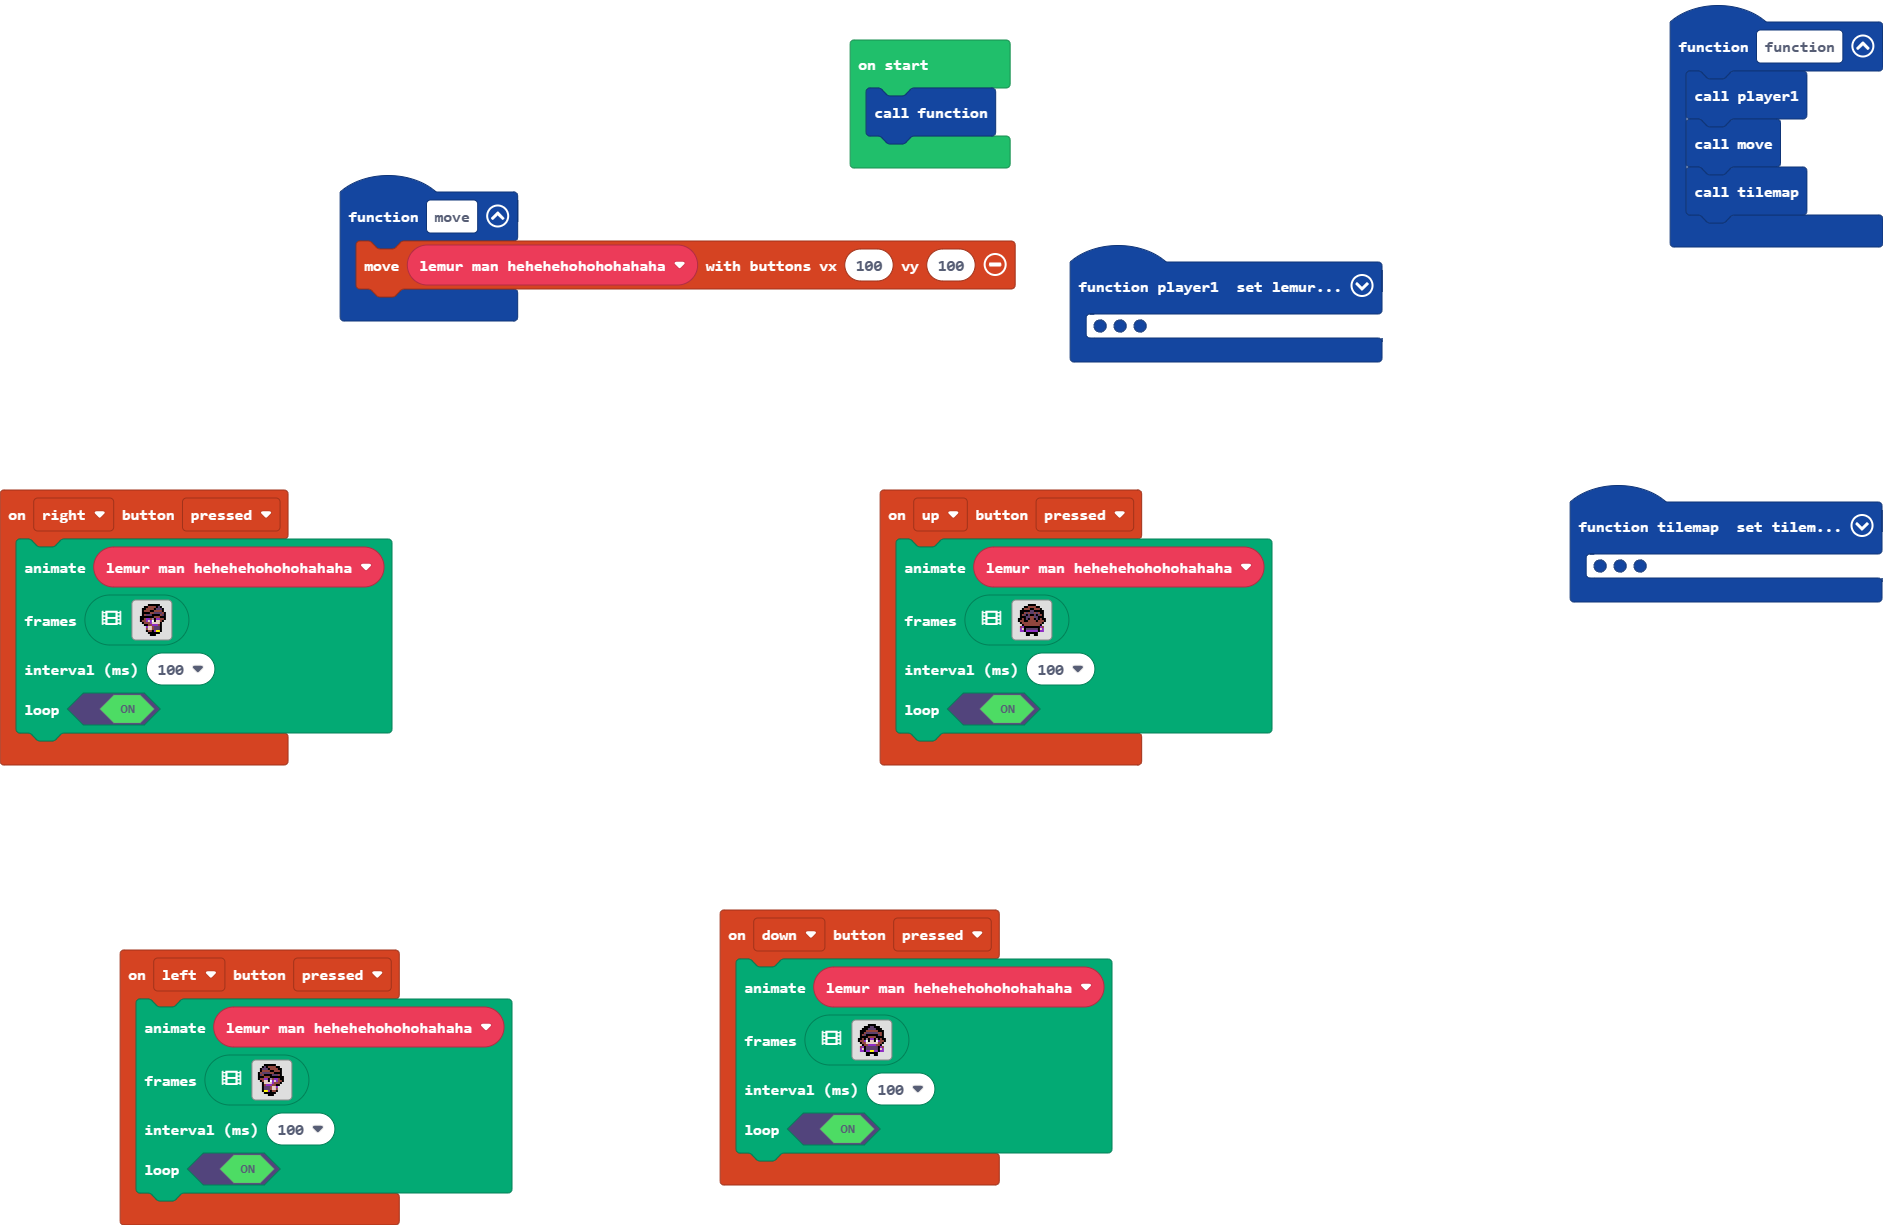
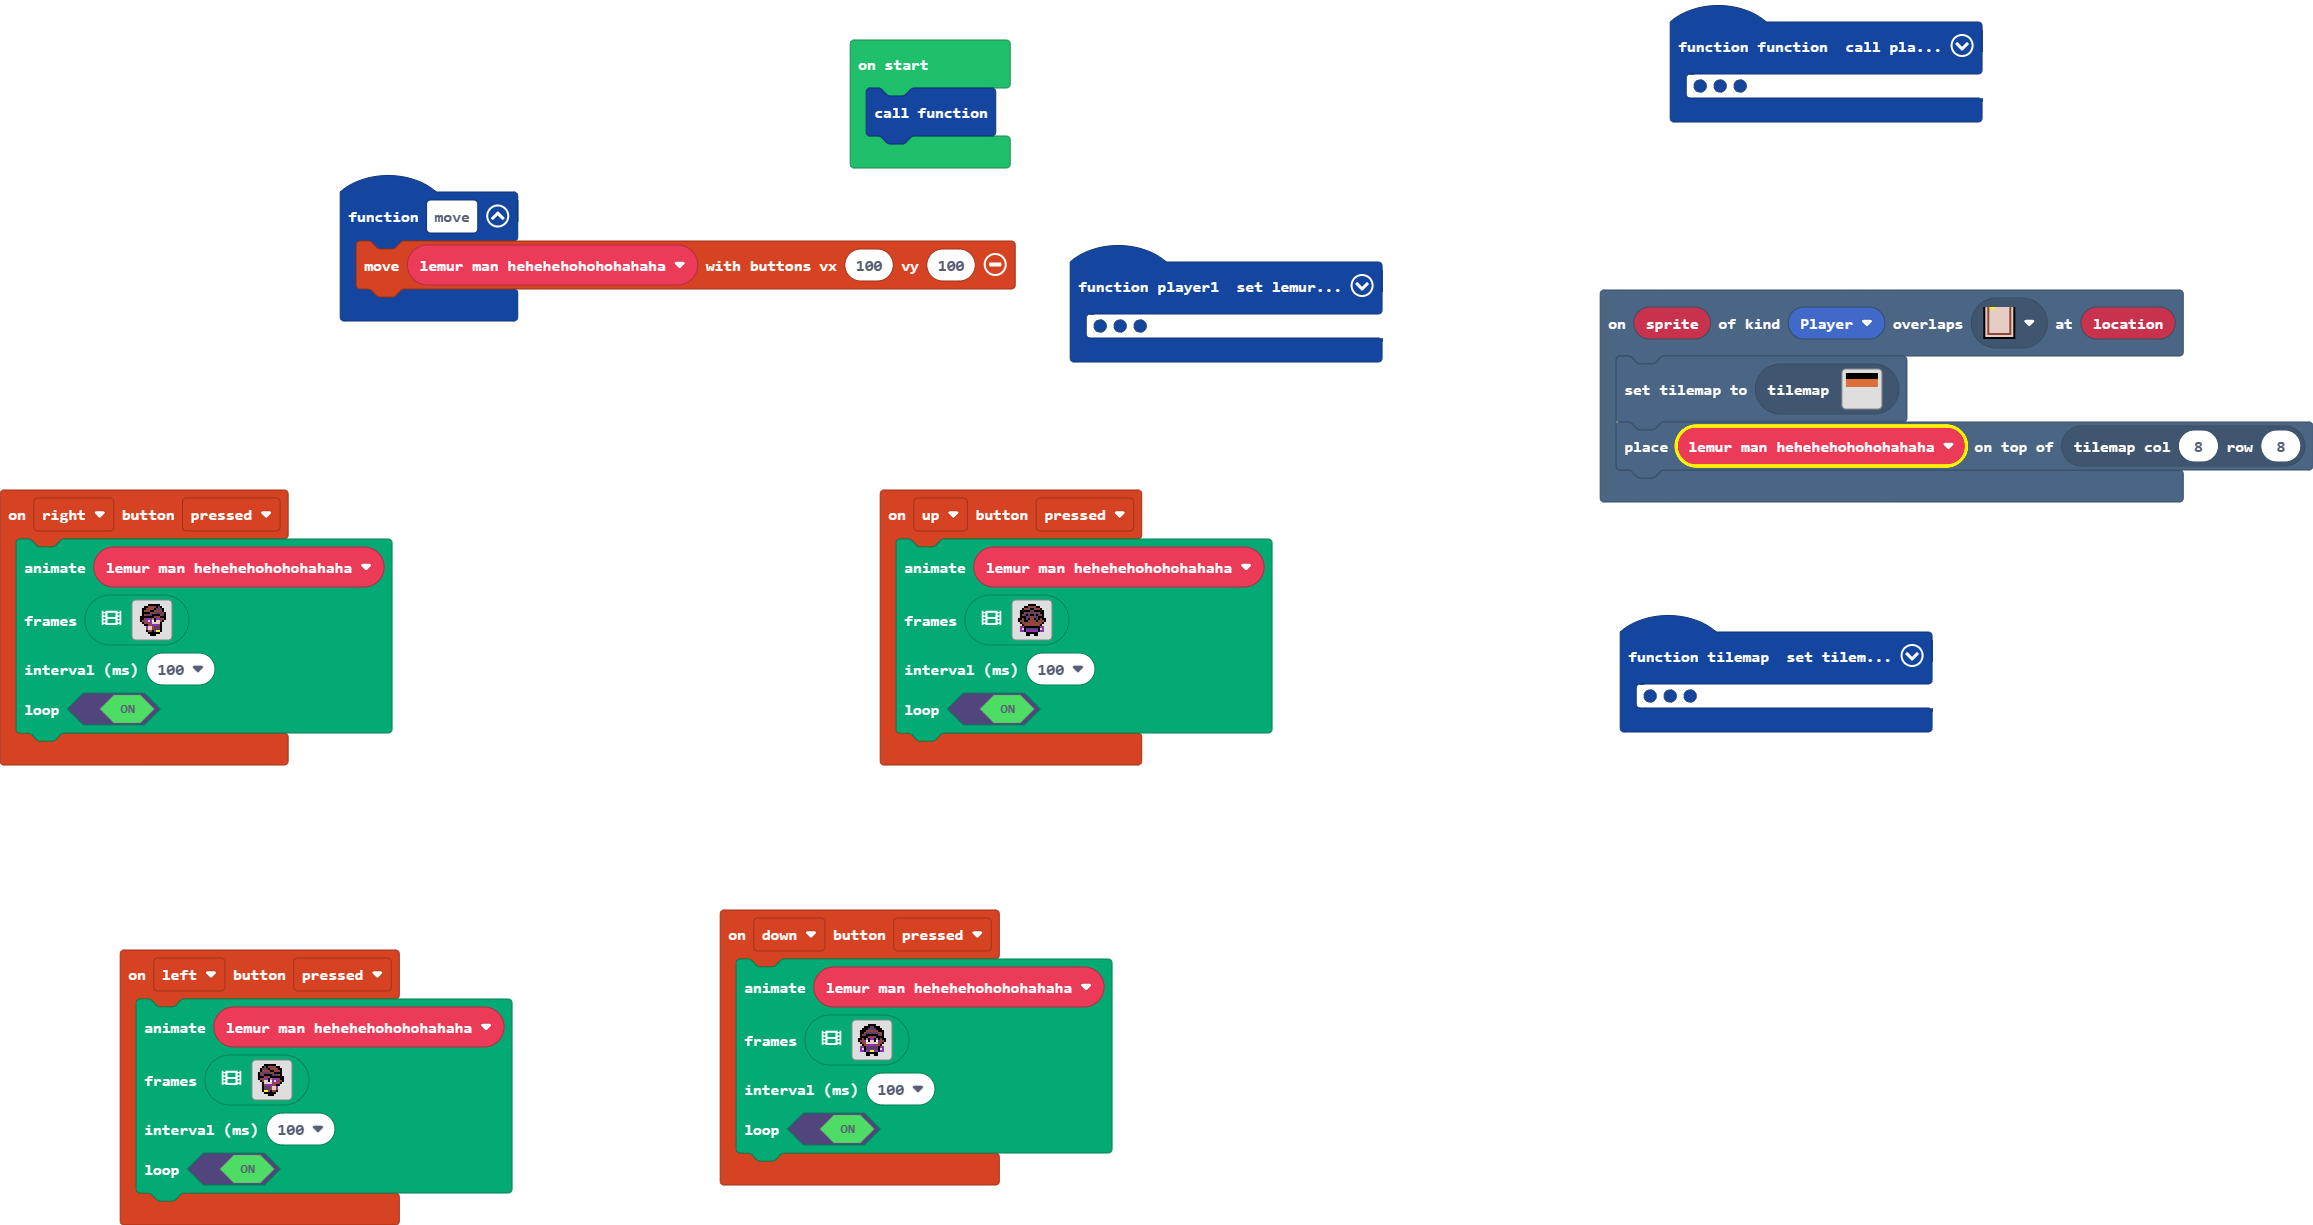
Update main.blocks, main.ts, tilemap.g.jres, tilemap.g.ts

diff --git a/tilemap.g.ts b/tilemap.g.ts
@@ -14,6 +14,12 @@ namespace myTiles {
     export const tile5 = image.ofBuffer(hex``);
     //% fixedInstance jres blockIdentity=images._tile
     export const tile6 = image.ofBuffer(hex``);
+    //% fixedInstance jres blockIdentity=images._tile
+    export const tile7 = image.ofBuffer(hex``);
+    //% fixedInstance jres blockIdentity=images._tile
+    export const tile8 = image.ofBuffer(hex``);
+    //% fixedInstance jres blockIdentity=images._tile
+    export const tile9 = image.ofBuffer(hex``);
 
     helpers._registerFactory("tilemap", function(name: string) {
         switch(helpers.stringTrim(name)) {
@@ -37,7 +43,24 @@ namespace myTiles {
 . . . . . . . . . . . . . . . . 
 `, [myTiles.transparency16], TileScale.Sixteen);
             case "test":
-            case "level1":return tiles.createTilemap(hex`2000200001010101010101010101010101010101010101010101010101010101010101010101010101010101010101010101010101010101010101010101010101010101010101010101010101010101010101010101010101010101010101010101010101010101010101010101010101010101010101010101010101010101010101010101010101010101010101010101010101010101010101010101010101010101010101010101010101010101010101010101010101010101010101010101010101010101010101010101010101010101010101010101010101010101010101010101010101010101010101010101010101010101010101010101010101010101010101010101010101010101010101010101010101010101010101010101010101010101010101010101010101010101010101010101010101010101010101010101010101010101010101010101010101010101010101010101010101010101010101010101010101010101010101010101010101010101010101010101010101010101010101010101010101010101010101010101010101010101010101010101010101010101010101010101010101010101010101010101010101010101010101010101010101010101010101010101010101010101010101010101010101010101010101010101010101010101010101010101010101010101010101010101010101010101010101010101010101010101010101010101010101010101010101010101010101010101010101010101010101010101010101010101010101010101010101010101010101010101010101010101010101010101010101010101010101010101010101010101010101010101010101010101010101010101010101010101010101010101010101010101010101010101010101010101010101010101010101010101010101010101010101010101010101010101010101010101010101010101010101010101010101010101010101010101010101010101010101010101010101010101010101010101010101010101010101010101010101010101010101010101010101010101010101010101010101010101010101010101010101010101010101010101010101010101010101010101010101010101010101010101010101010101010101010101010101010101010101010101010101010101010101010101010101010101010101010101010101010101010101010101010101010101010101010101010101010101010101010101010101010101010101010101010101010101010101010101010101010101010101010101010101010101010101010101010101010101010101010101010101010101010101010101010101010101010101010101010101010101010101010101010101010101`, img`
+            case "level1":return tiles.createTilemap(hex`2000200001010101010101010101010101010101010101010101010101010101010101010101010101010101010101010101010101010101010101010101010101010101010101010101010101010101010101010101010101010101010101010101010101010101010101010101010101010101010101010101010101010101010101010101010101010101010101010101010101010101010101010101010101010101010101010101010101010101010101010101010101010101010101010101010101010101010101010101010101010101010101010101010101010101010101010101010101010101010101010101010101010101010101010101010101010101010101010101010101010101010101010101010101010101010101010101010101010101010101010101010101010101010101010101010101010101010101010101010101010101010101010101010101010101010101010101010101010101010101010101010101010303030101010101010101010101010101010101010101010101010101010103030303030101010101010101010101010101010101010101010101010101030302020203030101010101010101010101010101010101010101010101010103020202020203010101010101010101010101010101010101010101010101010202020502020201010101010101010101010101010101010101010101010101020202040202020101010101010101010101010101010101010101010101010101010101010101010101010101010101010101010101010101010101010101010101010101010101010101010101010101010101010101010101010101010101010101010101010101010101010101010101010101010101010101010101010101010101010101010101010101010101010101010101010101010101010101010101010101010101010101010101010101010101010101010101010101010101010101010101010101010101010101010101010101010101010101010101010101010101010101010101010101010101010101010101010101010101010101010101010101010101010101010101010101010101010101010101010101010101010101010101010101010101010101010101010101010101010101010101010101010101010101010101010101010101010101010101010101010101010101010101010101010101010101010101010101010101010101010101010101010101010101010101010101010101010101010101010101010101010101010101010101010101010101010101010101010101010101010101010101010101010101010101010101010101010101010101010101010101010101010101010101010101010101010101010101010101010101010101010101010101`, img`
+................................
+................................
+................................
+................................
+................................
+................................
+................................
+................................
+................................
+................................
+................................
+..........222...................
+.........22222..................
+........2222222.................
+........2222222.................
+........2222222.................
+........222.222.................
 ................................
 ................................
 ................................
@@ -53,24 +76,45 @@ namespace myTiles {
 ................................
 ................................
 ................................
-................................
-................................
-................................
-................................
-................................
-................................
-................................
-................................
-................................
-................................
-................................
-................................
-................................
-................................
-................................
-................................
-................................
-`, [myTiles.transparency16,myTiles.tile6], TileScale.Sixteen);
+`, [myTiles.transparency16,myTiles.tile6,myTiles.tile2,myTiles.tile3,myTiles.tile4,myTiles.tile5], TileScale.Sixteen);
+            case "level3":
+            case "level3":return tiles.createTilemap(hex`1000100000000000000000000000000000000000000000000000000000000000000000000000000000000000000000000000000000000000000000000000000000000000000000000000000000000000000000000000000000000000000000000000000000000000000000000000000000000000000000000000000000000000000000000000000000000000000000000000000000000000000000000000000000000000000000000000000000000000000000000000000000000000000000000000000000000000000000000000000000000000000000000000000000000000000000000000000000000000000000000000000000000000000000000000000000000000`, img`
+. . . . . . . . . . . . . . . . 
+. . . . . . . . . . . . . . . . 
+. . . . . . . . . . . . . . . . 
+. . . . . . . . . . . . . . . . 
+. . . . . . . . . . . . . . . . 
+. . . . . . . . . . . . . . . . 
+. . . . . . . . . . . . . . . . 
+. . . . . . . . . . . . . . . . 
+. . . . . . . . . . . . . . . . 
+. . . . . . . . . . . . . . . . 
+. . . . . . . . . . . . . . . . 
+. . . . . . . . . . . . . . . . 
+. . . . . . . . . . . . . . . . 
+. . . . . . . . . . . . . . . . 
+. . . . . . . . . . . . . . . . 
+. . . . . . . . . . . . . . . . 
+`, [myTiles.transparency16], TileScale.Sixteen);
+            case "level":
+            case "level4":return tiles.createTilemap(hex`1000100002020202020202020202020202020202020202020202020202020202020202020202020202020202020202020202020201010101010101010101010101010101010101010101010101010101010101010101010101010101010101010101010101010101010101010101010101010101000000000000000000000000000000000000000000000000000000000000000000000000000000000000000000000000000000000000000000000000000000000000000000000000000000000000000000000000000000000000000000000000000000000000000000000000000000000000000000000000000000000000000000000000000000000000000000000000`, img`
+. . . . . . . . . . . . . . . . 
+. . . . . . . . . . . . . . . . 
+. . . . . . . . . . . . . . . . 
+. . . . . . . . . . . . . . . . 
+. . . . . . . . . . . . . . . . 
+. . . . . . . . . . . . . . . . 
+. . . . . . . . . . . . . . . . 
+. . . . . . . . . . . . . . . . 
+. . . . . . . . . . . . . . . . 
+. . . . . . . . . . . . . . . . 
+. . . . . . . . . . . . . . . . 
+. . . . . . . . . . . . . . . . 
+. . . . . . . . . . . . . . . . 
+. . . . . . . . . . . . . . . . 
+. . . . . . . . . . . . . . . . 
+. . . . . . . . . . . . . . . . 
+`, [myTiles.transparency16,myTiles.tile7,myTiles.tile8], TileScale.Sixteen);
         }
         return null;
     })
@@ -90,6 +134,12 @@ namespace myTiles {
             case "tile5":return tile5;
             case "myTile3":
             case "tile6":return tile6;
+            case "myTile4":
+            case "tile7":return tile7;
+            case "myTile5":
+            case "tile8":return tile8;
+            case "myTile6":
+            case "tile9":return tile9;
         }
         return null;
     })

diff --git a/main.ts b/main.ts
@@ -1,3 +1,7 @@
+scene.onOverlapTile(SpriteKind.Player, assets.tile`myTile1`, function (sprite, location) {
+    tiles.setCurrentTilemap(tilemap`level`)
+    tiles.placeOnTile(lemur_man_hehehehohohohahaha, tiles.getTileLocation(8, 8))
+})
 controller.up.onEvent(ControllerButtonEvent.Pressed, function () {
     animation.runImageAnimation(
     lemur_man_hehehehohohohahaha,
@@ -9,7 +13,7 @@ controller.up.onEvent(ControllerButtonEvent.Pressed, function () {
 function tilemap2 () {
     tiles.setCurrentTilemap(tilemap`test`)
     scene.cameraFollowSprite(lemur_man_hehehehohohohahaha)
-    tiles.placeOnTile(lemur_man_hehehehohohohahaha, tiles.getTileLocation(32, 32))
+    tiles.placeOnTile(lemur_man_hehehehohohohahaha, tiles.getTileLocation(16, 16))
 }
 controller.left.onEvent(ControllerButtonEvent.Pressed, function () {
     animation.runImageAnimation(
